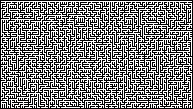
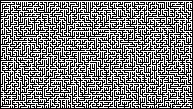
29

Changed region(s): [[0.0, 0.0, 0.9948, 0.9908], [0.1244, 0.0, 0.1554, 0.0275]]

diff --git a/A01/maze.py b/A01/maze.py
@@ -38,17 +38,21 @@ def genBoard(width,height):
 
     return board
 
-def sewardMaze(width,height):
-    imgWidth=width//20
-    imgHeight=height//20
+def recursiveBacktracking(width,height):
     unexplored=254
     explored=255
 
-    img=genBoard(width,height)
+    maze=genBoard(width,height)
+    cmaze=cv2.cvtColor(maze,cv2.COLOR_GRAY2BGR)
 
+    darkRed=(12,20,146)
+    copper=(77,124,190)
+
+    mazeHeight,mazeWidth=maze.shape
     stack=[(1,1)]
-    img[1,1]=explored
+    maze[1,1]=explored
     count=0
+    video = cv2.VideoWriter("rb-maze.avi", cv2.VideoWriter_fourcc(*"MJPG"), 60, (1920, 1080))
     while stack:
         index=random.randrange(len(stack))*0+-1
         x,y=stack[index]
@@ -57,19 +61,29 @@ def sewardMaze(width,height):
             xp=x+2*dx
             yp=y+2*dy
 
-            if 0<=xp<imgWidth and 0<=yp<imgHeight and img[yp,xp]==unexplored:
+            if 0<=xp<mazeWidth and 0<=yp<mazeHeight and maze[yp,xp]==unexplored:
                 possibles.append((xp,yp))
         if possibles:
             xt,yt=random.choice(possibles)
-            img[yt,xt]=explored
-            img[(y+yt)//2,(x+xt)//2]=explored
+            maze[yt,xt]=explored
+            cmaze[yt,xt,:]=darkRed
+            maze[(y+yt)//2,(x+xt)//2]=explored
+            cmaze[(y+yt)//2,(x+xt)//2,:]=darkRed
             stack.append((xt,yt))
         else:
+            x,y=stack[index]
+            cmaze[y,x,:]=copper
             stack.pop(index)
         # cv2.imwrite(f"animation/maze{count:05d}.png",img)
-        show(cv2.resize(img,dsize=(20*imgWidth,20*imgHeight),interpolation=cv2.INTER_AREA),wait=False)
+        frame=cv2.resize(cmaze, dsize=(1920, 1080), interpolation=cv2.INTER_AREA)
+        video.write(frame)
         count+=1
-        print(count)
+        if count%100==0:
+            print(count)
+            # show(cv2.resize(cmaze, dsize=(20 * width, 20 * height), interpolation=cv2.INTER_AREA), wait=False)
+
+    show(cv2.resize(cmaze, dsize=(20 * width, 20 * height), interpolation=cv2.INTER_AREA), wait=True)
+    cv2.imwrite("rb-maze.png",maze)
 
 # Recursive Backtracking
 # Right/Left hand Maze Following
@@ -78,21 +92,19 @@ def sewardMaze(width,height):
 
 
 def sidewinder(width,height):
-    # 1.) Work through the grid row-wise, starting with the cell at 0,0. Initialize the “run” set to be empty.
-    # 2.) Add the current cell to the “run” set.
-    # 3.) For the current cell, randomly decide whether to carve east or not.
-    # 4.) If a passage was carved, make the new cell the current cell and repeat steps 2-4.
-    # 5.) If a passage was not carved, choose any one of the cells in the run set and carve a passage north. Then empty the run set, set the next cell in the row to be the current cell, and repeat steps 2-5.
-    # 6.) Continue until all rows have been processed.
-
     board=genBoard(width,height)
     cboard=cv2.cvtColor(board,cv2.COLOR_GRAY2BGR)
+    video = cv2.VideoWriter("sw-maze.avi", cv2.VideoWriter_fourcc(*"MJPG"), 30, (1920, 1080))
+
+    blueCrayola=(217,142,5)
+    pistachio=(109,190,144)
 
     run=[]
 
     h,w=board.shape
 
     board[1,1:w-1]=255
+    cboard[1,1:w-1,:]=blueCrayola
 
     k=3
     while k<h:
@@ -100,12 +112,14 @@ def sidewinder(width,height):
         while n<w-1:
             run.append(n)
             if random.randint(0,1)==1 and n<w-2:
-                cboard[k,n:n+1,2]=255
+                cboard[k,n,:]=blueCrayola
+                cboard[k,n+1,:]=blueCrayola
                 board[k,n+1]=255
                 # show(cv2.resize(cboard, dsize=(20 * width, 20 * height), interpolation=cv2.INTER_AREA), wait=False)
             else:
                 first=run[0]
                 last=run[-1]
+                cboard[k,n,:]=blueCrayola
 
                 # if board[k-2,random.randint(first,last)]==254:
                 badRand=True
@@ -113,16 +127,18 @@ def sidewinder(width,height):
                     place=random.randint(first,last)
                     if place%2==1:
                         board[k-1,place]=255
+                        cboard[k-1,place]=pistachio
                         badRand=False
                 # show(cv2.resize(cboard, dsize=(20 * width, 20 * height), interpolation=cv2.INTER_AREA), wait=False)
 
-                cboard=cv2.cvtColor(board,cv2.COLOR_GRAY2BGR)
                 run=[]
+            frame=cv2.resize(cboard, dsize=(1920, 1080), interpolation=cv2.INTER_AREA)
+            video.write(frame)
             n+=2
         run=[]
         k+=2
 
-    cv2.imwrite("maze.png",board)
+    cv2.imwrite("sw-maze.png",board)
     # show(cv2.resize(board, dsize=(20 * width, 20 * height), interpolation=cv2.INTER_AREA), wait=True)
 
     return board
@@ -158,31 +174,114 @@ def workerRB(board,x,y):
     else:
         return board
 
-def recursiveBacktracking(width,height):
-    # 1.) Choose a starting point in the field.
-    # 2.) Randomly choose a wall at that point and carve a passage through to the adjacent cell, but only if the adjacent cell has not been visited yet. This becomes the new current cell.
-    # 3.) If all adjacent cells have been visited, back up to the last cell that has uncarved walls and repeat.
-    # 4.) The algorithm ends when the process has backed all the way up to the starting point.
+def leftFree(dir,maze,x,y):
+    if dir==0 and maze[y,x-1]>0:
+        return True
+    elif dir==1 and maze[y-1,x]>0:
+        return True
+    elif dir==2 and maze[y,x+1]>0:
+        return True
+    elif dir==3 and maze[y+1,x]>0:
+        return True
+    else:
+        return False
+    
+def rightFree(dir,maze,x,y):
+    if dir==0 and maze[y,x+1]>0:
+        return True
+    elif dir==1 and maze[y+1,x]>0:
+        return True
+    elif dir==2 and maze[y,x-1]>0:
+        return True
+    elif dir==3 and maze[y-1,x]>0:
+        return True
+    else:
+        return False
 
-    board=genBoard(width,height)
+def turnLeft(dir):
+    dir-=1
+    if dir<0:
+        dir=3
 
-    for x in range(200):
-        workerRB(board,random.randint(2,width//20),random.randint(2,height//20))
+    return dir
 
-        show(cv2.resize(board, dsize=(20 * width, 20 * height), interpolation=cv2.INTER_AREA), wait=False)
+def turnRight(dir):
+    dir+=1
+    if dir>3:
+        dir=0
 
-def wallFollower(maze,dir,x,y):
-    #1234
-    maze[1,1]
+    return dir
+
+def straightFree(dir,maze,x,y):
+    if dir==0 and maze[y-1,x]>0:
+        return True
+    if dir==1 and maze[y,x+1]>0:
+        return True
+    if dir==2 and maze[y+1,x]>0:
+        return True
+    if dir==3 and maze[y,x-1]>0:
+        return True
+    else:
+        return False
+
+def moveStraight(dir,x,y):
+    if dir==0:
+        y-=1
+    elif dir==1:
+        x+=1
+    elif dir==2:
+        y+=1
+    elif dir==3:
+        x-=1
+
+    return x,y
+
+def turnAround(dir):
+    return (dir+2)%3
+
+def wallFollower(maze,cmaze):
+    # If left is free:
+    #     Turn Left
+    # Else if left is occupied and straight is free:
+    #     Go Straight
+    # Else if left and straight are occupied:
+    #     Turn Right
+    # Else if left/right/straight are occupied or you crashed:
+    #     Turn 180 degrees
+
     h,w=maze.shape
 
-    # at end
-    if x==w-1 and y==h-1:
-        return maze
-    elif dir==3 and maze[y,x+1]==255:
-        wallFollower(maze,3,x+1,y)
-
+    x,y=0,1
     dir=2
+    count=0
+    while cmaze[h-2,w-2,2]>0:
+        if x==w-1:
+            x-=1
+        if y==h-1:
+            y-=1
+        if leftFree(dir,maze,x,y):
+            dir=turnLeft(dir)
+            x,y=moveStraight(dir,x,y)
+            cmaze[y,x,2]-=70
+        elif straightFree(dir,maze,x,y):
+            while straightFree(dir,maze,x,y) and not leftFree(dir,maze,x,y):
+                x,y=moveStraight(dir,x,y)
+                cmaze[y,x,2]-=70
+        elif rightFree(dir,maze,x,y):
+            dir=turnRight(dir)
+            x,y=moveStraight(dir,x,y)
+            cmaze[y,x,2]-=70
+        else:
+            dir=(dir+2)%3
+            x,y=moveStraight(dir,x,y)
+            cmaze[y,x,2]-=70
+
+
+        if count%1000==0:
+            show(cv2.resize(cmaze, dsize=(20 * 1920, 20 * 1080), interpolation=cv2.INTER_AREA), wait=False)
+            print(x,y)
+        count+=1
+
 
 def tremaux(maze,cmaze):
     # Choose Random Direction
@@ -224,9 +323,61 @@ def tremaux(maze,cmaze):
             maze[y,x-1]-=1
         show(cv2.resize(cmaze, dsize=(20 * 1920, 20 * 1080), interpolation=cv2.INTER_AREA), wait=False)
 
+def mazeFollow(maze):
+    h,w=maze.shape
+    print(h,w)
 
+    cmaze=cv2.cvtColor(maze,cv2.COLOR_GRAY2BGR)
+
+    cmaze[1,1,:]=(98,96,213)
+    cmaze[h-2,w-2,:]=(11,195,236)
+    
+    video = cv2.VideoWriter("lefthand-rbSolve.avi", cv2.VideoWriter_fourcc(*"MJPG"), 30, (1920, 1080))
+
+    dir=2
+    count=0
+    x,y=1,1
+    while True:
+        if x==w-2 and y==h-2:
+            break
+        elif leftFree(dir,maze,x,y):
+            dir=turnLeft(dir)
+            x,y=moveStraight(dir,x,y)
+        elif straightFree(dir,maze,x,y):
+            x,y=moveStraight(dir,x,y)
+        elif rightFree(dir,maze,x,y):
+            dir=turnRight(dir)
+            x,y=moveStraight(dir,x,y)
+        else:
+            dir=turnAround(dir)
+        cmaze[y,x,1]-=50
+        frame=cv2.resize(cmaze, dsize=(1920, 1080), interpolation=cv2.INTER_AREA)
+        video.write(frame)
+        count+=1
+
+    show(cv2.resize(cmaze, dsize=(20 * 1920, 20 * 1080), interpolation=cv2.INTER_AREA), wait=True)
+
+maze=cv2.imread("rb-maze.png",0)
+mazeFollow(maze)
 
 # recursiveBacktracking(1920,1080)
-maze=sidewinder(1920,1080)
+# maze=recursiveBacktracking(1920,1080)
+# cmaze=cv2.cvtColor(maze,cv2.COLOR_GRAY2BGR)
+#
+# wallFollower(maze,cmaze)
 
-tremaux(maze,(cv2.cvtColor(maze,cv2.COLOR_GRAY2BGR)))
+# cap = cv2.VideoCapture("rb-maze.avi")
+#
+# out = cv2.VideoWriter('output.avi',cv2.VideoWriter_fourcc(*"MJPG"), 30, (1920,1080))
+#
+# while True:
+#     ret, frame = cap.read()
+#     if ret == True:
+#         b = cv2.resize(frame,(1920,1080),fx=0,fy=0, interpolation = cv2.INTER_AREA)
+#         out.write(b)
+#     else:
+#         break
+#
+# cap.release()
+# out.release()
+# cv2.destroyAllWindows()
